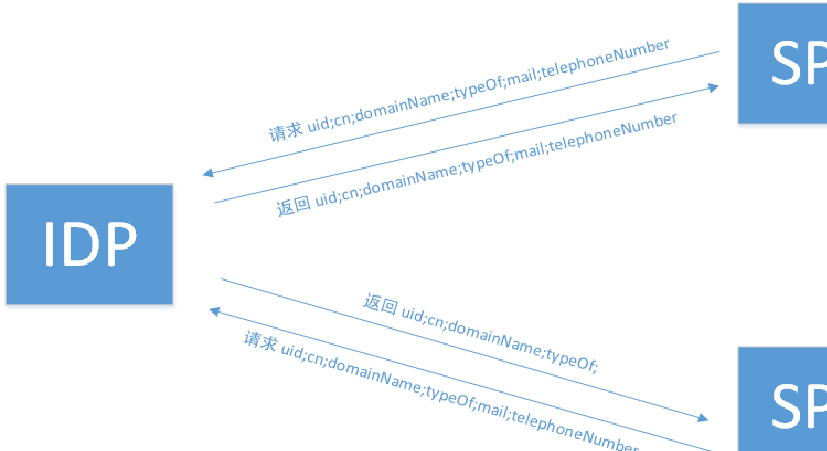
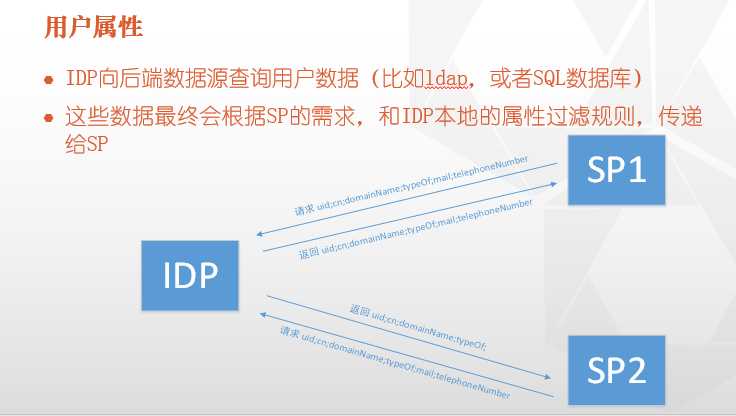
idp2_conf

diff --git a/idp2/idpAuth.md b/idp2/idpAuth.md
@@ -1,1 +1,135 @@
-# 认证配置
+# 用户认证配置
+
+idP 有多种认证方式，这里主要介绍两种：用户名+密码的认证方式和调用 CAS 认证的方式。
+
+#### 用户名+密码认证
+
+##### 开启用户名+密码认证
+首先修改 ```IDP_HOME/conf/handle.xml``` 文件，开启 ```UsernamePassword``` 元素。
+```
+<!--  Username/password login handler -->
+<ph:LoginHandler xsi:type="ph:UsernamePassword" jaasConfigurationLocation="file:///opt/idp/conf/login.config">
+ 	<ph:AuthenticationMethod>urn:oasis:names:tc:SAML:2.0:ac:classes:PasswordProtectedTransport</ph:AuthenticationMethod>
+</ph:LoginHandler>
+```
+
+注释掉除了 ```PreviousSession ```以外的所有 ```Loginhander```。（用于保持会话）
+
+##### 登录页面修改
+
+登录页面可通过修改 ```login.jsp ```和 ```login.css``` 文件来自定义。
+文件位置在具体的 ```webapp``` 内，例如 ```/opt/apache-tomcat-6.0.36/webapps/idp/login.jsp```
+
+##### 配置 ldap 认证
+
+修改 ```IDP_HOME/conf/login.config``` ，例如
+```
+ShibUserPassAuth {
+   edu.vt.middleware.ldap.jaas.LdapLoginModule required
+      ldapUrl="ldap://ldap.example.edu.cn:389"
+      ssl="false"
+      tls="false"
+      baseDn="ou=people,dc=example,dc=edu,dc=cn"
+      subtreeSearch="true"
+      userFilter="uid={0}"
+      bindDn="<ldapservicedn>"
+      bindCredential="<password>";
+};
+```
+
+#### 调用 CAS 认证
+
+Shibboleth 支持 CAS 认证。详情可见 CAS 的官方文档 http://jasig.github.io/cas/4.0.x/integration/Shibboleth.html
+
+下载最新版的 cas-client，并将 ```cas-client-$VERSION/modules/cas-client-core-$VERSION.jar``` 复制到 idp 安装目录的 ```lib/``` 当中。然后重新安装 idp
+
+修改 ```IDP_HOME/conf/handler.xml``` , 开启 ```RemoteUser```
+
+```
+<!-- Remote User handler for CAS support -->
+<LoginHandler xsi:type="RemoteUser">
+  <AuthenticationMethod>
+    urn:oasis:names:tc:SAML:2.0:ac:classes:unspecified
+  </AuthenticationMethod>
+  <AuthenticationMethod>
+    urn:oasis:names:tc:SAML:2.0:ac:classes:PasswordProtectedTransport
+  </AuthenticationMethod>
+</LoginHandler>
+```
+修改 IDP war 所部署目录内的 ```web.xml```
+例如 ```/opt/apache-tomcat-6.0.36/webapps/idp/WEB-INF/web.xml```
+
+```
+<!-- For CAS client support -->
+<context-param>
+  <param-name>serverName</param-name>
+  <param-value>${idp.hostname}</param-value>
+</context-param>
+CAS Filters
+<!-- CAS client filters -->
+<filter>
+  <filter-name>CAS Authentication Filter</filter-name>
+  <filter-class>
+      org.jasig.cas.client.authentication.AuthenticationFilter
+  </filter-class>
+  <init-param>
+    <param-name>casServerLoginUrl</param-name>
+    <param-value>${cas.server.url}login</param-value>
+  </init-param>
+</filter>
+ 
+<filter-mapping>
+  <filter-name>CAS Authentication Filter</filter-name>
+  <url-pattern>/Authn/RemoteUser</url-pattern>
+</filter-mapping>
+  
+<filter>
+  <filter-name>CAS Validation Filter</filter-name>
+  <filter-class>
+    org.jasig.cas.client.validation.Cas20ProxyReceivingTicketValidationFilter
+  </filter-class>
+  <init-param>
+    <param-name>casServerUrlPrefix</param-name>
+    <param-value>${cas.server.url}</param-value>
+  </init-param>
+  <init-param>
+    <param-name>redirectAfterValidation</param-name>
+    <param-value>true</param-value>
+  </init-param>
+</filter>
+  
+<filter-mapping>
+  <filter-name>CAS Validation Filter</filter-name>
+  <url-pattern>/Authn/RemoteUser</url-pattern>
+</filter-mapping>
+  
+<filter>
+  <filter-name>CAS HttpServletRequest Wrapper Filter</filter-name>
+  <filter-class>
+    org.jasig.cas.client.util.HttpServletRequestWrapperFilter
+  </filter-class>
+</filter>
+  
+<filter-mapping>
+  <filter-name>CAS HttpServletRequest Wrapper Filter</filter-name>
+  <url-pattern>/Authn/RemoteUser</url-pattern>
+</filter-mapping>
+```
+
+确认 RemoteUserHander 是开启的。
+
+```
+<!-- Servlet protected by container user for RemoteUser authentication -->
+<servlet>
+  <servlet-name>RemoteUserAuthHandler</servlet-name>
+  <servlet-class>edu.internet2.middleware.shibboleth.idp.authn.provider.RemoteUserAuthServlet</servlet-class>
+</servlet>
+  
+<servlet-mapping>
+  <servlet-name>RemoteUserAuthHandler</servlet-name>
+  <url-pattern>/Authn/RemoteUser</url-pattern>
+</servlet-mapping>
+```
+
+
+

diff --git a/idP2/idpAttr.md b/idP2/idpAttr.md
@@ -1,0 +1,65 @@
+# 属性获取配置
+
+idP 能够在认证时去读取用户的身份属性信息，从而提供给应用更多的内容，进而对用户提供更多层次的服务。
+
+可以在 ```IDP_HOME/conf/attribute-resolver.xml```
+
+#### 定义 idP 所需要获取的属性
+
+```
+    <resolver:AttributeDefinition xsi:type="ad:Simple" id="uid" sourceAttributeID="uid">
+        <resolver:Dependency ref="generic" />
+        <resolver:AttributeEncoder xsi:type="enc:SAML1String" name="urn:mace:dir:attribute-def:uid" />
+       <resolver:AttributeEncoder xsi:type="enc:SAML2String" name="urn:oid:2.5.4.2" friendlyName="uid" />
+
+    <resolver:AttributeDefinition xsi:type="ad:Simple" id="email" sourceAttributeID="mail">
+        <resolver:Dependency ref="generic" />
+        <resolver:AttributeEncoder xsi:type="enc:SAML1String" name="urn:mace:dir:attribute-def:email" />
+        <resolver:AttributeEncoder xsi:type="enc:SAML2String" name="urn:oid:0.9.2342.19200300.100.1.3" friendlyName="email" />
+    </resolver:AttributeDefinition>
+```
+
+这里的xsi:type="enc:SAML2String" name="urn:oid:2.5.4.2"，需要遵循联盟内的属性标准，详细内容参见附件《跨校认证系统属性规范草案v2》
+
+##### 采用 ldap 获取属性
+修改属性连接器配置，此处为 ```generic``` ,t添加 ldap 相关配置信息。如果 ldap 查询响应过慢会导致认证出错，则应增加 ```searchTimeLimit="30000"``` 限制查询时间，保障至少认证通过。
+示例
+```
+    <resolver:DataConnector id="generic" xsi:type="dc:LDAPDirectory"
+        ldapURL="ldap://ldap.example.edu.cn:389" 
+        baseDN="dc=example,dc=edu,dc=cn" 
+        principal="<ldapservicedn>"
+        principalCredential="<password>"
+        searchTimeLimit="30000">
+        <dc:FilterTemplate>
+            <![CDATA[
+                (uid=$requestContext.principalName)
+            ]]>
+        </dc:FilterTemplate>
+        <dc:ReturnAttributes>uid cn mail membleOf</dc:ReturnAttributes>
+    </resolver:DataConnector>
+
+```
+
+##### 采用 jbdc 的方式获取属性
+首先将所使用数据库对应的 JDBC 的 驱动(jar 包) 放入 ```IDP_HOME/lib``` 中。
+
+然后修改属性连接器配置，此处为 ```generic``` ,添加数据库的相关配置信息。
+示例
+```
+    <resolver:DataConnector id="generic" xsi:type="dc:RelationalDatabase">
+        <dc:ApplicationManagedConnection jdbcDriver="com.mysql.jdbc.Driver"
+                                         jdbcURL="jdbc:mysql://mysql:3306/account"
+                                         jdbcUserName=”<databaseuser>" 
+                                         jdbcPassword="<password>t" />
+        <dc:QueryTemplate>
+            <![CDATA[
+                SELECT * FROM auth_account_identity WHERE account = '$requestContext.principalName'
+            ]]>
+        </dc:QueryTemplate>
+        <dc:Column columnName="account" attributeID="uid" type="String" />
+        <dc:Column columnName="name" attributeID="cn" type="String" />
+        <dc:Column columnName="user_style" attributeID="typeOf" type="String" />
+    </resolver:DataConnector>
+
+```

diff --git a/idP2/idpFilter.md b/idP2/idpFilter.md
@@ -1,0 +1,39 @@
+# 属性过滤配置
+
+Shibboleth 强调隐私的保护，因此对于 idP 所释放的属性，可以通过属性过滤器做对应的控制，限制其对不同的应用释放不同类别的属性。
+
+#### attribute-filter 配置
+
+修改IDP_HOME/conf/attribute-filter.xml
+这里可以设定哪些属性能够释放给哪些SP。
+
+可仿造其 example 配置
+
+```
+    <afp:AttributeFilterPolicy id="releaseTransientIdToAnyone">
+        <afp:PolicyRequirementRule xsi:type="basic:ANY"/>
+        <afp:AttributeRule attributeID="transientId">
+            <afp:PermitValueRule xsi:type="basic:ANY"/>
+        </afp:AttributeRule>
+        <afp:AttributeRule attributeID="uid">
+                <afp:PermitValueRule xsi:type="basic:ANY"/>
+        </afp:AttributeRule>
+        <afp:AttributeRule attributeID="cn">
+                <afp:PermitValueRule xsi:type="basic:ANY"/>
+        </afp:AttributeRule>
+        <afp:AttributeRule attributeID="email">
+                <afp:PermitValueRule xsi:type="basic:ANY"/>
+        </afp:AttributeRule>
+        <afp:AttributeRule attributeID="domainName">
+                <afp:PermitValueRule xsi:type="basic:ANY"/>
+        </afp:AttributeRule>
+        <afp:AttributeRule attributeID="inetUserStatus">
+                <afp:PermitValueRule xsi:type="basic:ANY"/>
+        </afp:AttributeRule>
+        <afp:AttributeRule attributeID="typeOf">
+                <afp:PermitValueRule xsi:type="basic:ANY"/>
+        </afp:AttributeRule>
+    </afp:AttributeFilterPolicy>
+```
+
+

diff --git a/idP2/idprely_party.md b/idP2/idprely_party.md
@@ -1,0 +1,25 @@
+# relying_party 配置
+
+可以通过修改 ```IDP_HOME/conf/relying_party.xml``` 的方式来修改 relying_party 的配置。这些配置主要和 SAML 相关，通常不需要修改，我们只要把 idp provider 和 metadata provider 的名字改了就行了。
+
+#### relying_party 
+
+部分配置示例
+
+idp provider 修改。
+```
+    <rp:AnonymousRelyingParty provider="https://idp.example.edu.cn/idp/shibboleth" defaultSigningCredentialRef="IdPCredential"/>
+
+    <rp:DefaultRelyingParty provider="https://idp.example.edu.cn/idp/shibboleth" defaultSigningCredentialRef="IdPCredential">
+```
+
+metadata provider 修改
+```
+        <metadata:MetadataProvider id="URLMD" xsi:type="metadata:FileBackedHTTPMetadataProvider"
+                          metadataURL="https://ds.shec.edu.cn/metadata.xml"
+                          backingFile="/opt/idp/metadata/allinone.xml">
+        </metadata:MetadataProvider>
+```
+
+
+

diff --git a/idP2/idpMetadata.md b/idP2/idpMetadata.md
@@ -1,0 +1,12 @@
+# idP 的注册
+
+Shibboleth 框架内， idP 和 SP 需要通过 metadata 来互相取得信任关系。对于一个较大的跨域认证联盟而言，通常由统一的管理机构来统一管理 idP 和 SP 的 metadata。因此每一个 idP 或 SP，只需要将其 metadata 提交给管理机构注册后，即和其域内完成互信。
+
+#### Metadata
+
+在 idp 安装完以后，可以修改  ```IDP_HOME/metadata/idp-metadata.xml``` 文件
+
+确保其各 location 的地址，和entityID 的名字与 relying_party.xml 的配置一致。
+
+
+

diff --git a/SUMMARY.md b/SUMMARY.md
@@ -19,7 +19,11 @@
    * [集中式 DS 安装](install/cds.md)
    * [嵌入式 DS 安装](install/esp.md)
 * [idP 2 配置](idP2/README.md)
-   * [认证配置](idP2/idpAuth.md)
+   * [用户认证配置](idP2/idpAuth.md)
+   * [属性获取配置](idP2/idpAttr.md)
+   * [属性过滤配置](idP2/idpFilter.md)
+   * [relying-party 配置](idP2/idprely_party.md)
+   * [idp 注册](idP2/metadata.md)
 * [idP 3 配置](idP3/README.md)
    * [认证配置](idP3/idpAuth.md)
 * [sp 配置](sp/README.md)

diff --git a/idP2/README.md b/idP2/README.md
@@ -1,1 +1,3 @@
-# sp 配置
+# idp 配置
+
+本章介绍 idp2 的配置相关说明。
